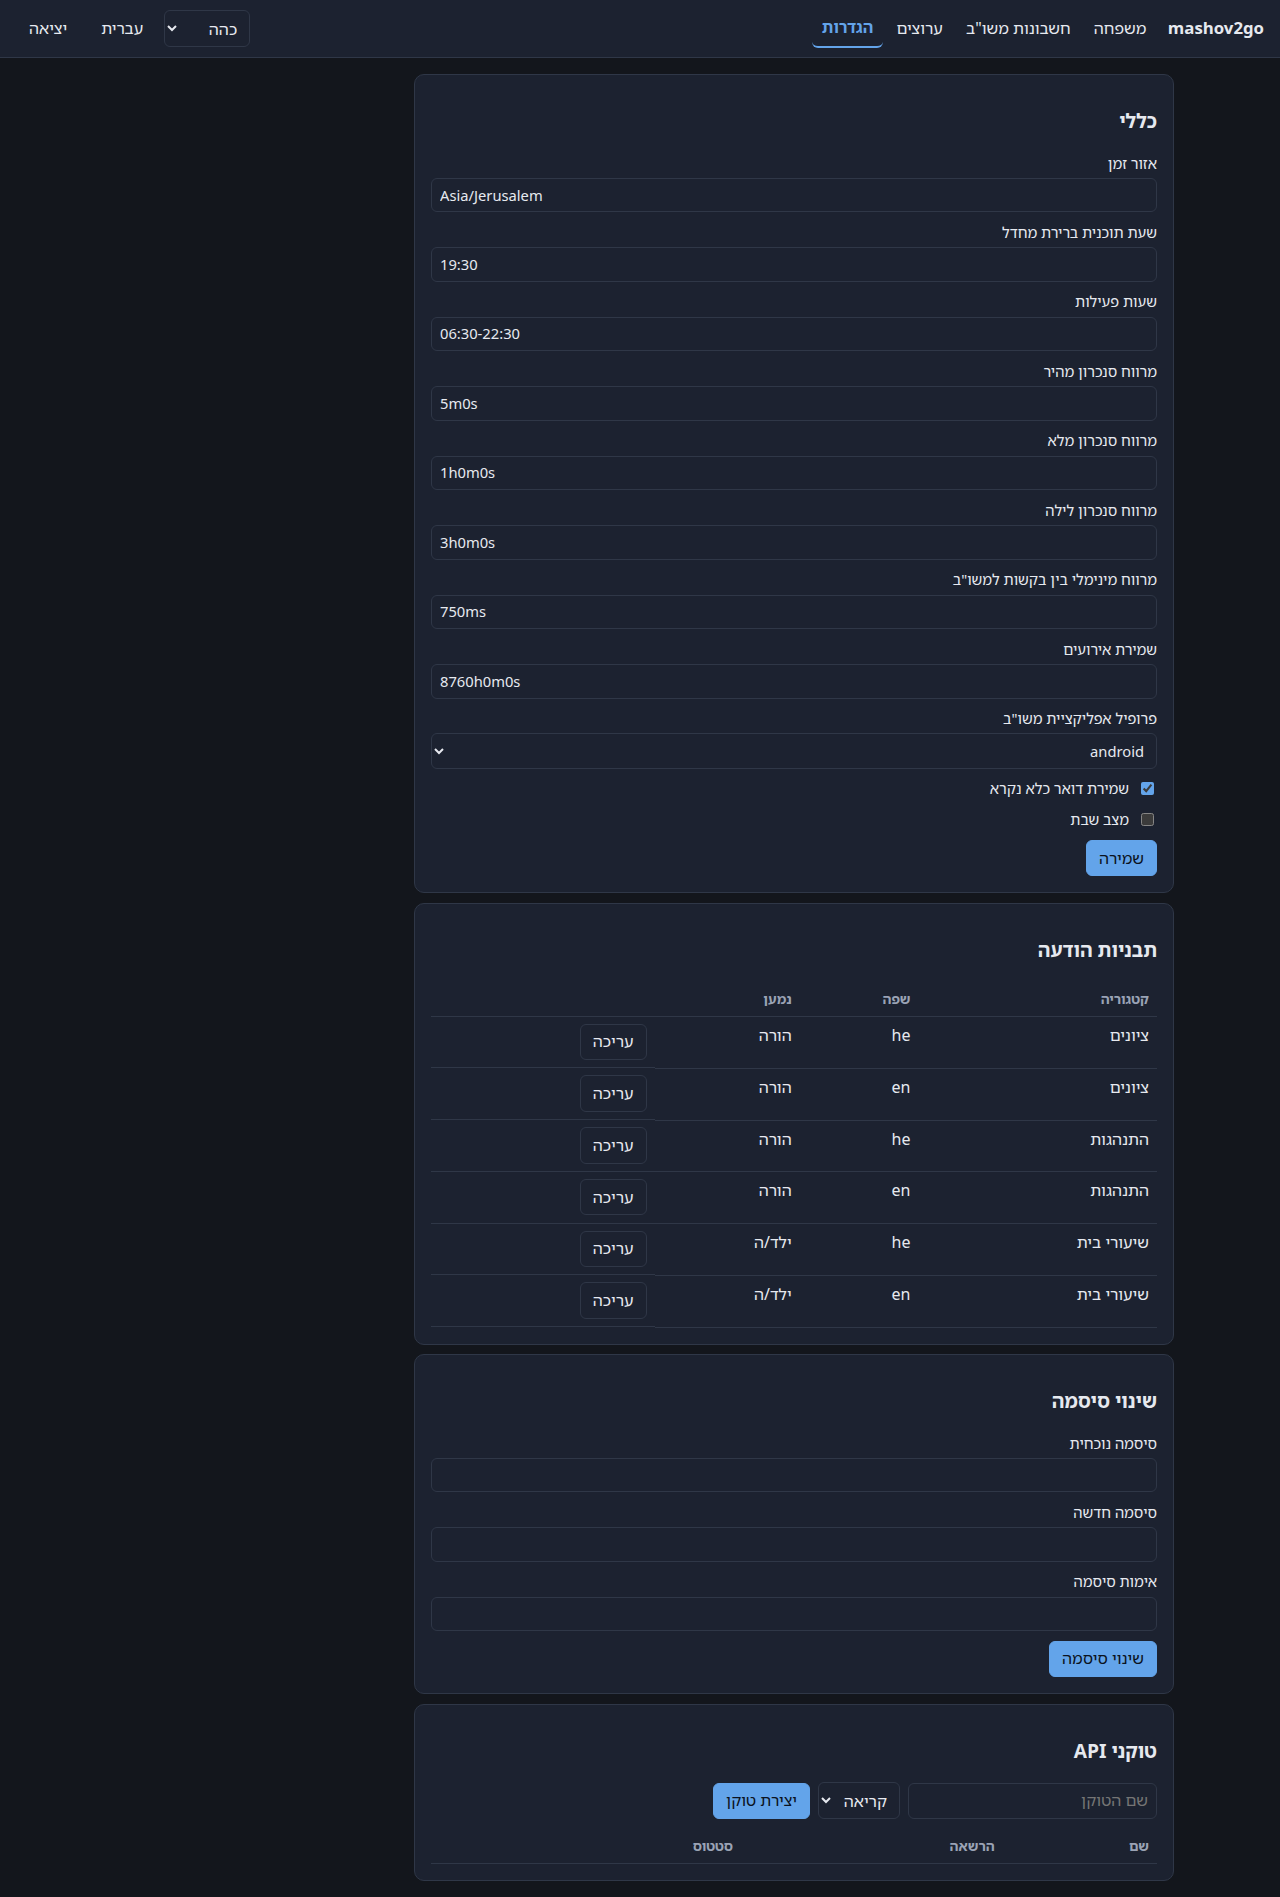
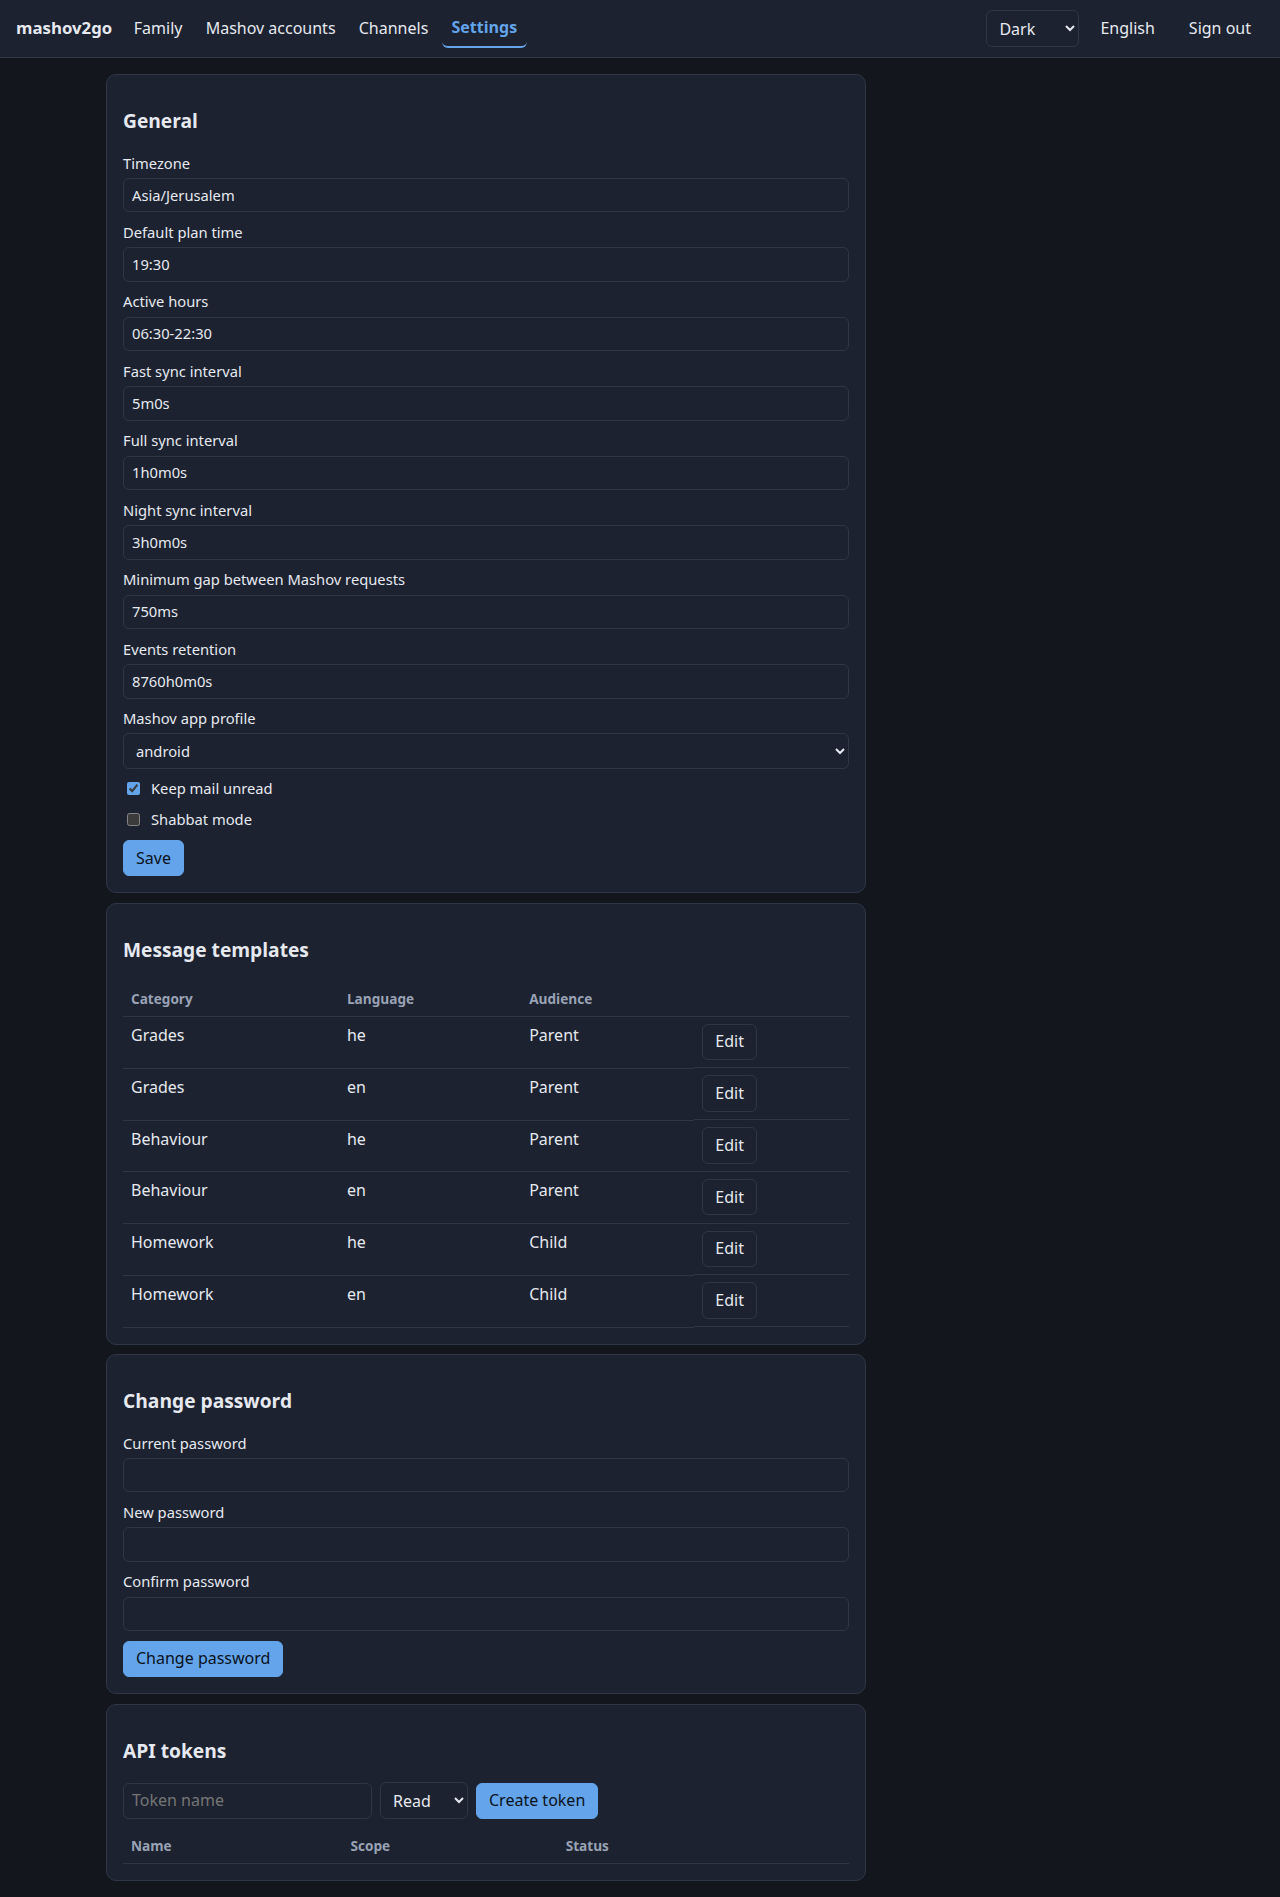
readme: English left-to-right UI; refresh screenshots

diff --git a/README.md b/README.md
@@ -48,8 +48,9 @@ screen is in `assets/screenshots/login-light.png`.
   optional fallback channel is tried once. Failed and skipped deliveries can be
   retried through the API (`POST /api/v1/deliveries/{id}/retry`).
 - **Settings UI and REST API.** The web UI is for settings only: the family,
-  Mashov accounts, channels, message templates and API tokens. It is Hebrew
-  right-to-left by default (English available), with light and dark themes.
+  Mashov accounts, channels, message templates and API tokens. It is English
+  and left-to-right by default (Hebrew right-to-left is available), with light
+  and dark themes.
   The API is documented in OpenAPI.
 - **Operations.** Prometheus counters at `/metrics` (needs a read-scope API
   token), a health check at `/healthz`, and a single static binary (no CGO)
